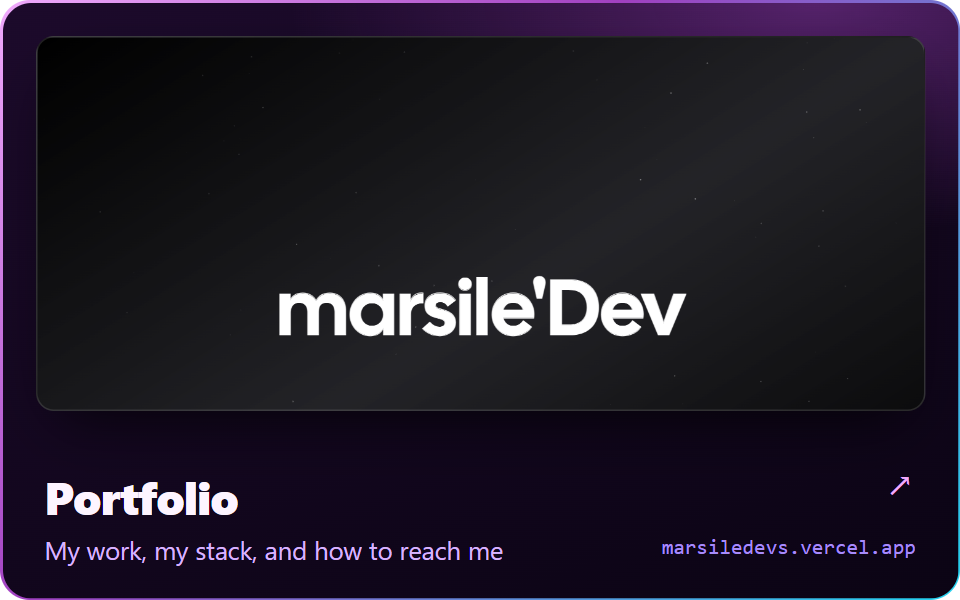
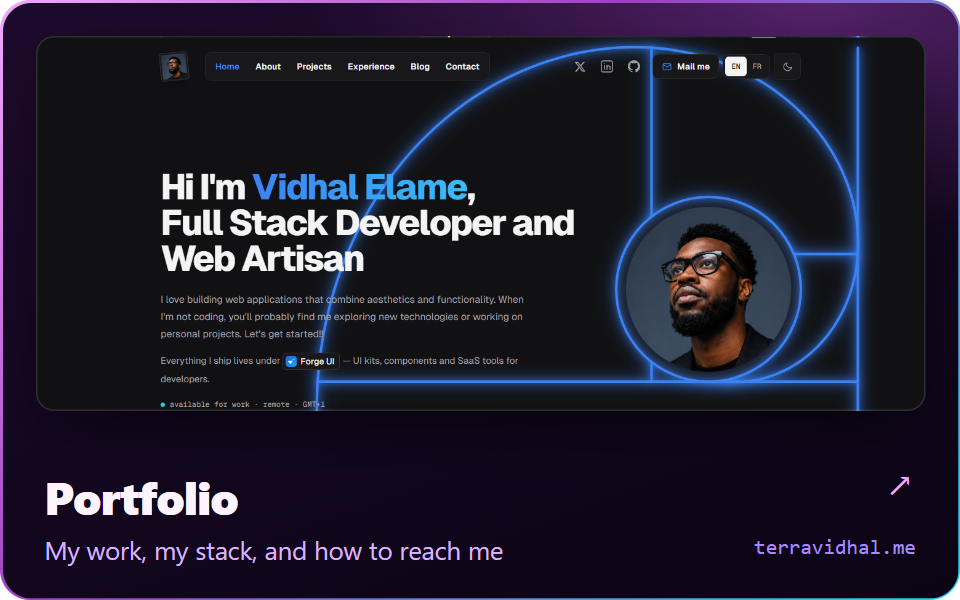
Portfolio card: new design and terravidhal.me link

Changed region(s): [[0.1562, 0.06, 0.9062, 0.69], [0.1562, 0.09, 0.5, 0.15], [0.6875, 0.9, 0.9688, 0.93]]

diff --git a/README.md b/README.md
@@ -98,7 +98,7 @@
 
 <table>
   <tr>
-    <td width="50%"><a href="https://marsiledevs.vercel.app/"><img src="assets/card-portfolio.png" alt="Portfolio — marsiledevs" width="100%"></a></td>
+    <td width="50%"><a href="https://terravidhal.me"><img src="assets/card-portfolio.png" alt="Portfolio — terravidhal.me" width="100%"></a></td>
     <td width="50%"><a href="https://blockforge.terravidhal.me"><img src="assets/card-blockforge.png" alt="Blockforge — shadcn/ui blocks" width="100%"></a></td>
   </tr>
   <tr>
